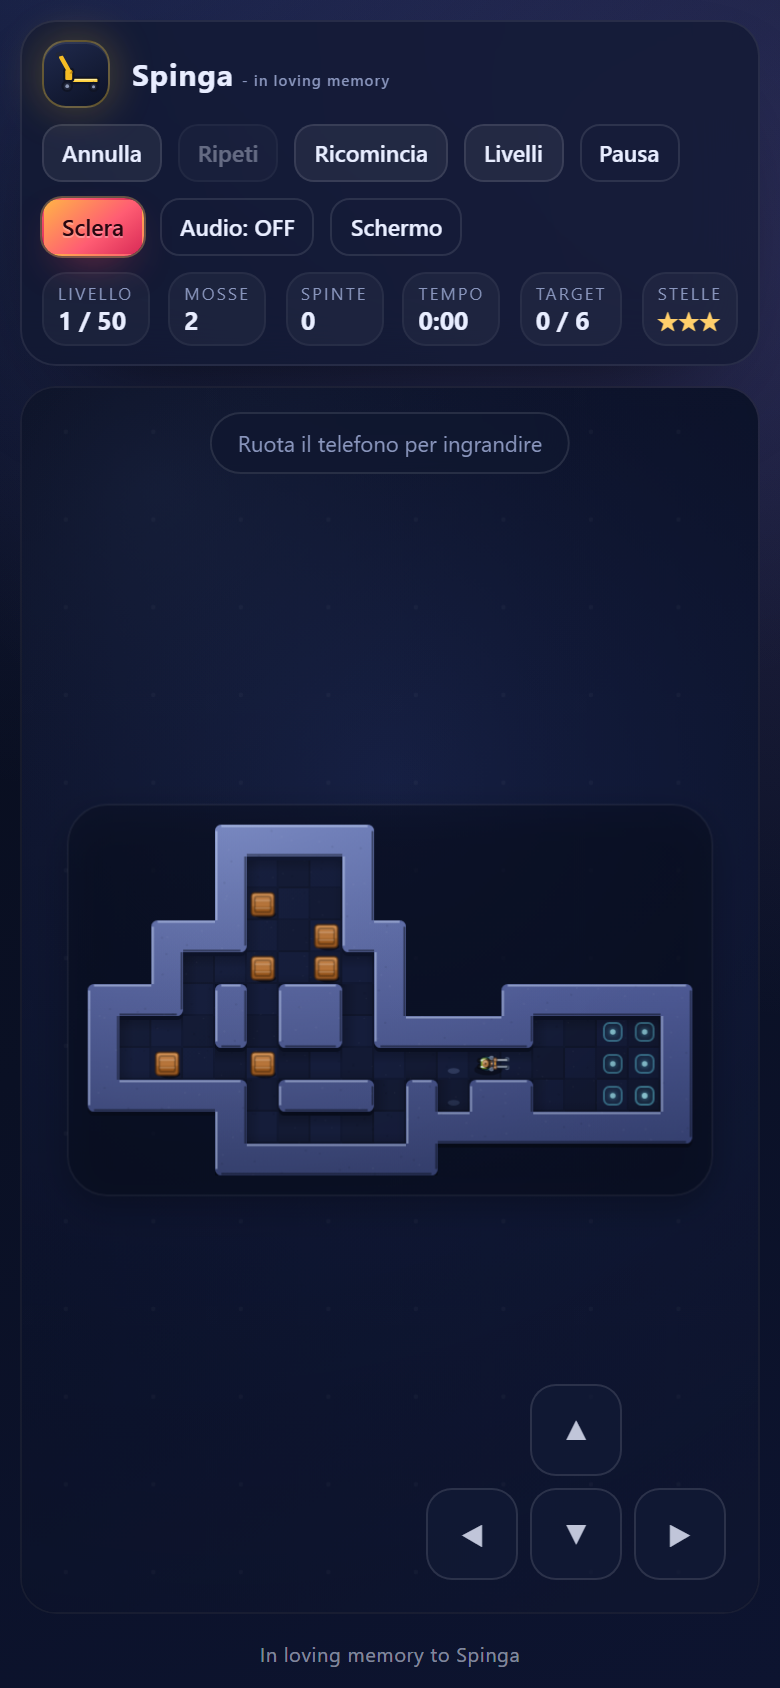
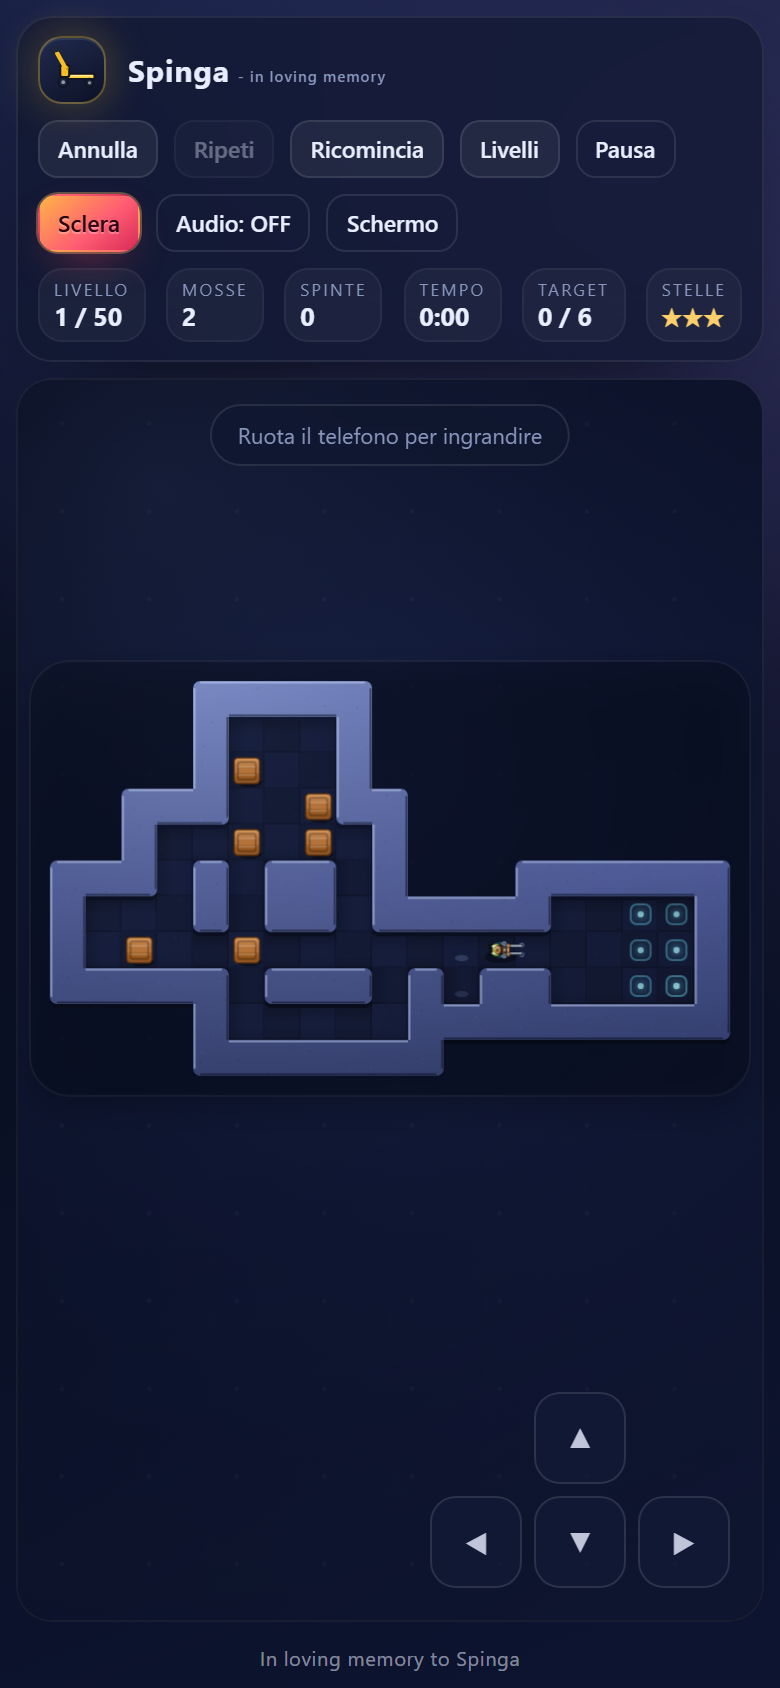
Dà più spazio al labirinto su smartphone.
In orizzontale l'HUD diventa una colonna laterale e il campo passa da 265 a 455 px
(+71%); su schermi piccoli margini ridotti, e il D-pad non copre più il labirinto.

🤖 Generated with Codebuff

diff --git a/game.js b/game.js
@@ -3,7 +3,7 @@
 
   // Spinga — Fase 2 P2: redo/ghost, conferma restart, pausa, accessibilità, mobile.
   // Grafica Fase 1: marching squares, ombre/AO, cache pavimento, materiali.
-  // Cache-busting: ?v=14 (repository GitHub, README, testi senza riferimenti esterni).
+  // Cache-busting: ?v=15 (layout smartphone: più spazio al campo, D-pad riservato).
 
   var LEVELS = Array.isArray(window.LEVELS) ? window.LEVELS : [];
   var canvas = document.getElementById('game');
@@ -1572,16 +1572,41 @@
     computeLayout();
   }
 
+  // Falda riservata al D-pad, così il campo non ci finisce sotto.
+  function padReserve() {
+    var none = { left: 0, right: 0, bottom: 0 };
+    var pad = $('touchpad');
+    if (!pad || !view.w) return none;
+    if (window.getComputedStyle(pad).display === 'none') return none;
+    var r = pad.getBoundingClientRect();
+    if (!r.width || !r.height) return none;
+    var gap = 24; // margine dal bordo + respiro tra campo e pulsanti
+    // stessa condizione del CSS: HUD a colonna e D-pad di lato solo in orizzontale.
+    // Non usare il rapporto del palco: su schermi stretti è più largo che alto anche in verticale.
+    if (window.matchMedia('(orientation: landscape) and (max-height: 560px)').matches) {
+      // il D-pad sta di lato: si riserva la fascia laterale
+      if (document.documentElement.getAttribute('data-pad-side') === 'left') {
+        return { left: r.width + gap, right: 0, bottom: 0 };
+      }
+      return { left: 0, right: r.width + gap, bottom: 0 };
+    }
+    // in verticale si riserva la fascia in basso
+    return { left: 0, right: 0, bottom: r.height + gap };
+  }
+
   function computeLayout() {
     if (!level.w || !view.w) return;
-    var pad = 28;
-    var availW = Math.max(80, view.w - pad * 2);
-    var availH = Math.max(80, view.h - pad * 2);
+    // sui telefoni il margine si stringe: lo spazio va al labirinto
+    var edge = Math.min(view.w, view.h) < 560 ? 10 : 28;
+    var reserved = padReserve();
+    var availW = Math.max(80, view.w - reserved.left - reserved.right - edge * 2);
+    var availH = Math.max(80, view.h - reserved.bottom - edge * 2);
     var tile = Math.floor(Math.min(availW / level.w, availH / level.h));
-    tile = Math.max(12, Math.min(66, tile));
+    // nessun minimo che possa spingere il campo fuori dal palco
+    tile = Math.max(8, Math.min(66, tile));
     layout.tile = tile;
-    layout.ox = (view.w - level.w * tile) / 2;
-    layout.oy = (view.h - level.h * tile) / 2;
+    layout.ox = reserved.left + (view.w - reserved.left - reserved.right - level.w * tile) / 2;
+    layout.oy = (view.h - reserved.bottom - level.h * tile) / 2;
     staticDirty = true;
     buildStaticBoard();
   }
@@ -2764,6 +2789,7 @@
   $('setPadSize').addEventListener('change', function () {
     save.padSize = this.value;
     applyLookPrefs();
+    if (level.w) computeLayout();
     persist();
     sfx.ui();
   });
@@ -2771,6 +2797,7 @@
   $('setPadSide').addEventListener('change', function () {
     save.padSide = this.value;
     applyLookPrefs();
+    if (level.w) computeLayout();
     persist();
     sfx.ui();
   });

diff --git a/style.css b/style.css
@@ -1,5 +1,5 @@
 /* Spinga — Fase 2: stelle, menu, impostazioni, fullscreen */
-/* Cache-busting: ?v=14 */
+/* Cache-busting: ?v=15 */
 
 :root {
   color-scheme: dark;
@@ -629,4 +629,64 @@ html.contrast .stat { background: rgba(255, 255, 255, 0.07); }
 
 @media (prefers-reduced-motion: reduce) {
   .btn.rage-btn, .btn.rage-btn:hover { transition: none; transform: none; }
+}
+
+/* ---------- Smartphone: il campo prima della cornice ---------- */
+
+@media (pointer: coarse) {
+  .app { gap: 8px; padding: 8px 8px 6px; }
+}
+
+/* Orizzontale: HUD in colonna stretta, campo a tutta altezza. */
+@media (pointer: coarse) and (orientation: landscape) and (max-height: 560px) {
+  .app {
+    flex-direction: row;
+    align-items: stretch;
+    gap: 8px;
+    padding: 8px;
+  }
+
+  .hud {
+    flex: 0 0 auto;
+    width: clamp(146px, 20vw, 184px);
+    flex-direction: column;
+    align-items: stretch;
+    gap: 7px;
+    padding: 8px;
+    overflow-y: auto;
+    overscroll-behavior: contain;
+  }
+
+  .brand { gap: 8px; }
+  .logo { width: 30px; height: 30px; border-radius: 9px; }
+  .logo svg { width: 24px; height: 24px; }
+  .brand-text h1 { font-size: 14px; }
+  .brand-text h1 .mem { display: block; margin: 1px 0 0; font-size: 7.5px; }
+
+  .stats {
+    order: 0;
+    width: 100%;
+    margin: 0;
+    display: grid;
+    grid-template-columns: 1fr 1fr;
+    gap: 5px;
+  }
+
+  .stat { min-width: 0; padding: 3px 6px; border-radius: 9px; }
+  .stat > span { font-size: 7.5px; letter-spacing: 0.8px; }
+  .stat strong { font-size: 12px; }
+
+  .actions {
+    order: 0;
+    margin: 0;
+    display: grid;
+    grid-template-columns: 1fr 1fr;
+    gap: 5px;
+  }
+
+  .actions .btn { padding: 5px 3px; font-size: 10.5px; border-radius: 8px; }
+
+  .stage { border-radius: 14px; }
+  .footer { display: none; }
+  .overlay { padding: 10px; }
 }

diff --git a/index.html b/index.html
@@ -7,7 +7,7 @@
 <meta name="theme-color" content="#0a1024">
 <meta name="description" content="Spinga: un puzzle da magazzino. Spingi le casse sui target, in memoria di Spinga.">
 <link rel="apple-touch-icon" href="icons/icon-180.png">
-<link rel="stylesheet" href="style.css?v=14">
+<link rel="stylesheet" href="style.css?v=15">
 </head>
 <body>
 <div class="app">
@@ -209,7 +209,7 @@
   </footer>
   <div id="liveRegion" class="sr-only" aria-live="polite" aria-atomic="true"></div>
 </div>
-<script src="levels.js?v=14"></script>
-<script src="game.js?v=14"></script>
+<script src="levels.js?v=15"></script>
+<script src="game.js?v=15"></script>
 </body>
 </html>

diff --git a/sw.js b/sw.js
@@ -1,11 +1,11 @@
 /* Spinga — service worker: gioco offline quando servito via http(s). */
-var CACHE = 'spinga-v14';
+var CACHE = 'spinga-v15';
 var ASSETS = [
   './',
   './index.html',
-  './style.css?v=14',
-  './levels.js?v=14',
-  './game.js?v=14',
+  './style.css?v=15',
+  './levels.js?v=15',
+  './game.js?v=15',
   './manifest.webmanifest',
   './icons/icon-192.png',
   './icons/icon-512.png',

diff --git a/AGENTS.md b/AGENTS.md
@@ -221,6 +221,28 @@ gli overlay. Su touch: swipe sul campo e D-pad in basso a destra.
 - Screenshot del gioco in `docs/` per il README, generati con Puppeteer (desktop e mobile).
 - Repository git inizializzato con commit iniziale. Cache-busting e service worker a `v14`.
 
+## 2026-11-16 — Smartphone: più spazio al campo
+
+- **Orizzontale**: sotto i 560 px di altezza con puntatore coarse `.app` diventa una riga;
+l'HUD è una colonna stretta (146–184 px) con statistiche e pulsanti su due colonne, il
+footer sparisce e la dedica passa sotto il titolo. Larghezza del campo: 265 → 455 px su
+844×390 (+71%), 227 → 360 px su 740×360 (+58%).
+- **Margini**: su schermi piccoli il margine del campo scende da 28 a 10 px e il padding
+dell'app da 14/10 a 8 px (portrait 390: campo 302 → 340 px).
+- **D-pad**: `padReserve()` in `computeLayout` tiene il labirinto fuori dalla fascia dei
+pulsanti: lato in orizzontale (secondo `data-pad-side`), in basso in verticale. La scelta
+usa la stessa media query del CSS (`orientation: landscape and max-height: 560px`) e non
+il rapporto del palco: su schermi stretti il palco è più largo che alto anche in
+verticale (320×568 → palco 304×303) e il campo finiva tagliato a sinistra. Cambiare lato
+o dimensione del D-pad ricalcola subito il layout.
+- Il minimo della cella scende da 12 a 8 px, così non può più spingere il campo fuori dal
+palco.
+- Verifiche: nessuna sovrapposizione campo/D-pad in 390×844, 320×568, 740×360 e 844×390
+(D-pad anche grande e a sinistra), tocco D-pad → undo → restart con conferma, regressione
+livello 1 (230 mosse, 97 spinte, 6/6, record salvato). Cache-busting a `?v=15`.
+- Limite noto: in verticale la larghezza del livello (fino a 20 celle) fissa il massimo
+della cella; per andare oltre servirebbe ruotare il labirinto (non fatto).
+
 ## Prossimi passi
 
 Vedi `ROADMAP.md`, ordine consigliato:

diff --git a/ROADMAP.md b/ROADMAP.md
@@ -32,6 +32,7 @@ selezione livelli, audio WebAudio, swipe e D-pad su mobile.
 - [x] Fase 2 (P2 brevi): redo/ghost, conferma restart, pausa, accessibilità, mobile extra
 - [x] Repository GitHub-ready: README con screenshot, licenza MIT sul codice, `.gitignore`
 - [x] Effetto commemorativo "Sclera": pulsante dedicato, popup animato, gioco in pausa
+- [x] Smartphone: campo più grande (HUD a colonna in orizzontale, margini ridotti, D-pad fuori dal labirinto)
 
 ## Principi
 
